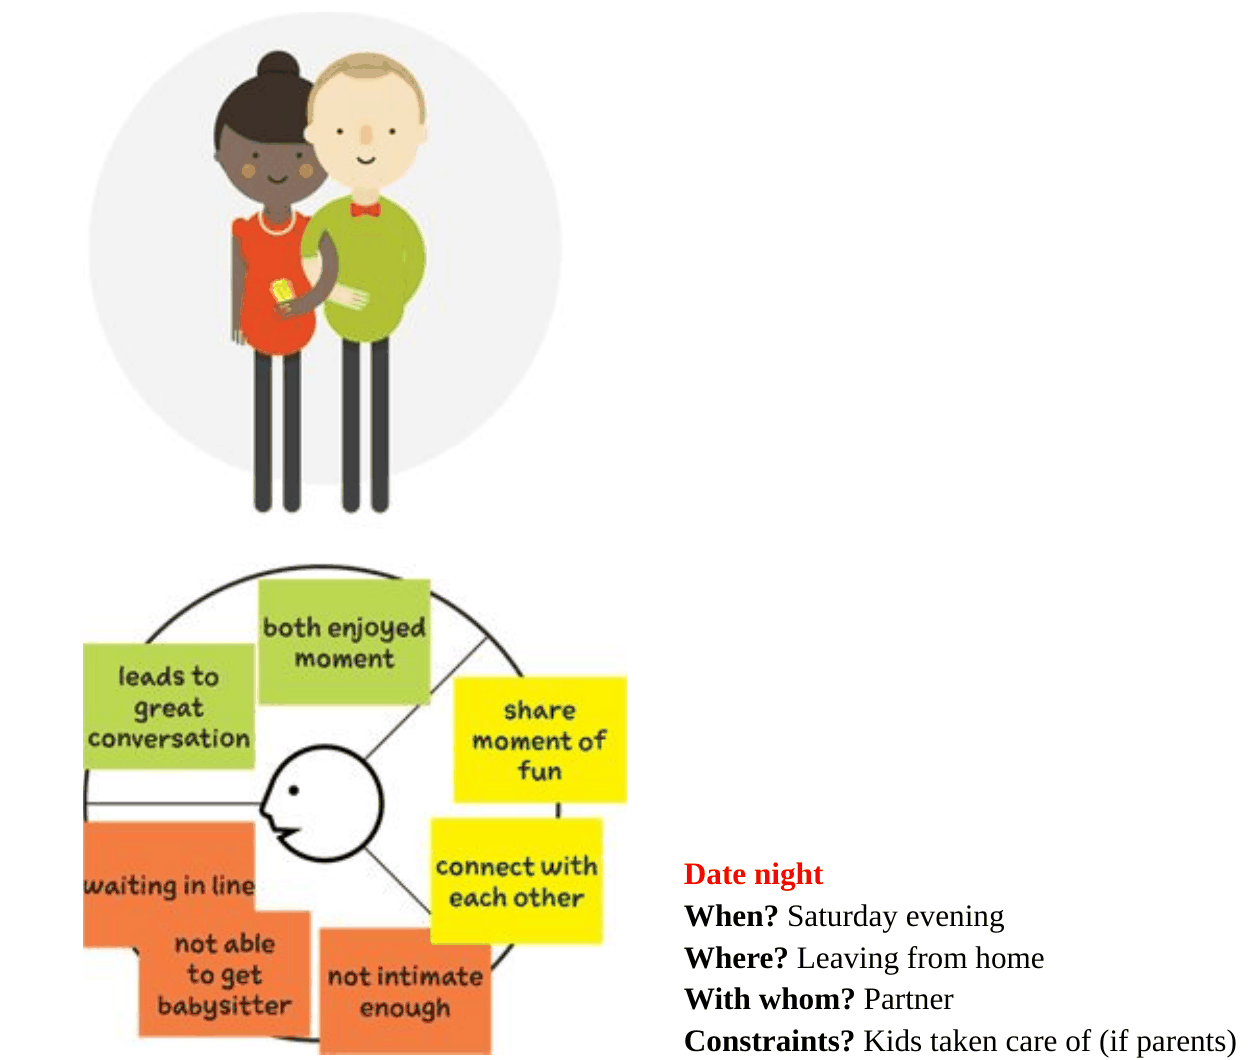
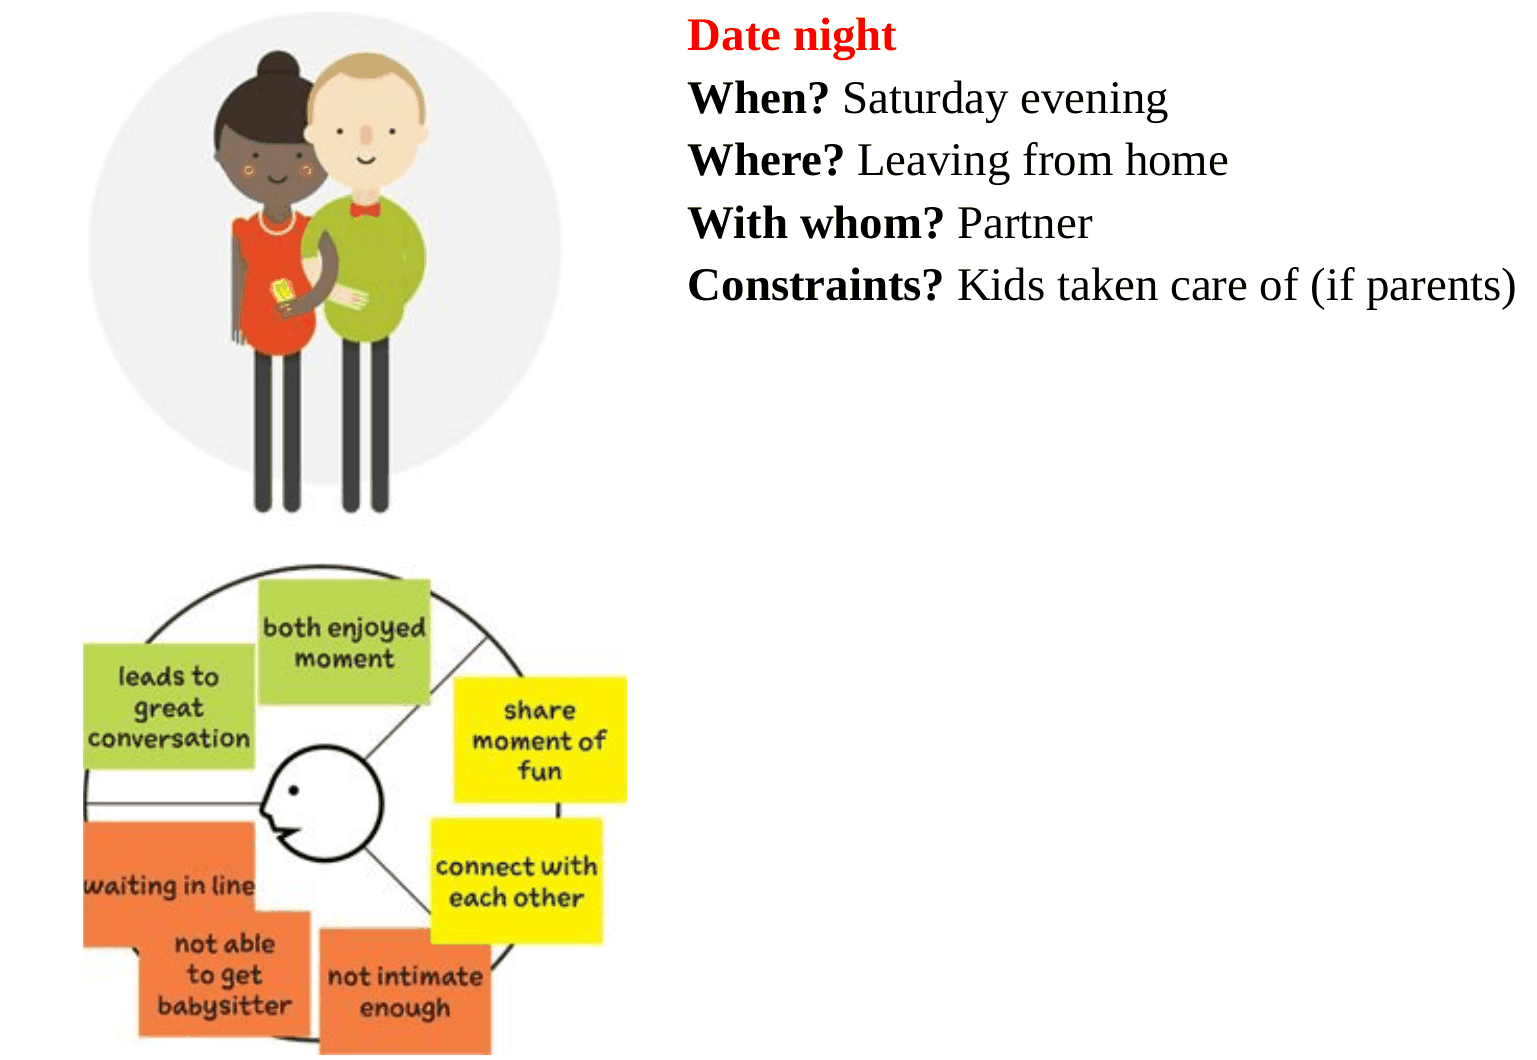
Tag 3: Befunde aus dem Review von #407
- erste-ideen: Zwei-Minuten-Runde auf freier Fläche oder Papier, Kaffeebar-Spalte
  auf Miro erst danach (dort liegen schon Ideen des Beispiels); Begleiter mit Miro-Schritt
- „18 Ideen im Beispiel; eure von vorhin kommen dazu“ statt „zählen dazu“
- value-map: „einer der vier häufigen Fehler“ statt „zweithäufigste“
- jane: Alt-Text Popcornbecher statt Kinokarten
- Rückfallzeit der Auflösungen als ENDE_TAG_3 (innolab-zeiten.ts), NACH_ZWOELF verweist darauf
- Beamer: alle neuen und geänderten Folien passen in 1280×720 und 1920×1080
- kontext: beide Abbildungen gleich breit, Kontextblock oben rechts und größer
- Begleiter: Regieanweisungen ohne „ihr“; „Ampel an der Hallentür“ wie auf Miro

Claude-Session: https://claude.ai/code/session_01CCZsPnWjKcPYRGN4dupdwP

diff --git a/src/data/begleiter/ideation.ts b/src/data/begleiter/ideation.ts
@@ -37,30 +37,31 @@ export const NOTIZEN_IDEATION: Record<string, Notiz> = {
   'erste-ideen': {
     live: [
       'Frage H1 vorlesen, nichts erklären.',
+      'Freie Fläche oder Papier – Kaffeebar-Spalte noch nicht zeigen.',
       'Timer 2 min: allein, ein Sticky pro Idee, durchnummeriert.',
       'Nach 2 min: reihum nur die erste Idee vorlesen.',
       'Falle: schon jetzt kommentieren oder werten.',
-      'Stickies bleiben in der Kaffeebar-Spalte liegen.',
+      'Danach: Stickies aller in die Kaffeebar-Spalte legen.',
     ],
     uebung: { dauer: '2 min + 1 min reihum', form: 'allein, dann reihum laut: nur Idee Nr. 1' },
     miro: {
       frame: 'T3 · 3 · Ideation',
       schritte: [
-        '„Alle zu mir holen“ auf die Kaffeebar-Spalte von T3 · 3.',
-        'Jede*r legt eigene Stickies in „Ideen“, in der Reihenfolge des Einfalls nummeriert (1, 2, 3 …).',
-        'Nichts verschieben, nichts gruppieren – die Nummern braucht ihr auf der nächsten Folie.',
+        'Die zwei Minuten laufen auf einer freien Fläche neben den Frames oder auf Papier: In der Kaffeebar-Spalte von T3 · 3 liegen schon Ideen des Beispiels, sie würden die Antworten vorwegnehmen.',
+        'Jede*r schreibt eigene Stickies, in der Reihenfolge des Einfalls nummeriert (1, 2, 3 …). Nichts verschieben, nichts gruppieren – die Nummern braucht es auf der nächsten Folie.',
+        'Erst nach der Runde: „Alle zu mir holen“ auf die Kaffeebar-Spalte; die Stickies aller kommen in „Ideen“ dazu.',
       ],
-      vorschlaege: ['Ampel an der Tür', 'Bestellungen nach Abfahrtszeit aufrufen', 'Kaffee per Drohne'],
+      vorschlaege: ['Ampel an der Hallentür', 'Bestellungen nach Abfahrtszeit aufrufen', 'Kaffee per Drohne'],
     },
     ablauf: {
       schritte: [
         'H1 vorlesen: „Wie könnten wir dafür sorgen, dass Pendler*innen beim Betreten der Halle wissen, ob sich ein Kaffee bis zur Abfahrt ausgeht?“',
-        'Timer 2 min, alle schreiben still. Die Nummer auf dem Sticky ist die Reihenfolge des Einfalls.',
+        'Timer 2 min, alle schreiben still, auf einer freien Fläche oder auf Papier. Die Nummer auf dem Sticky ist die Reihenfolge des Einfalls.',
         'Reihum: Jede*r liest nur Idee Nr. 1 vor. Kein Kommentar.',
       ],
       achten: [
         'Die Nummern sind der Punkt der Übung – ohne sie fehlt der Vergleich in der Auflösung.',
-        'Die drei Stickies, die schon in der Spalte liegen, zählen nicht mit; wer dieselbe Idee hat, schreibt sie trotzdem.',
+        'Die Kaffeebar-Spalte zeigt schon drei Ideen des Beispiels (die Vorschläge unten). Sie bleibt bis nach der Runde zu; wer danach dieselbe Idee dort findet, legt die eigene trotzdem dazu.',
       ],
       aufloesung: 'Kommt auf der nächsten Folie: erste Ideen vergleichen, dann die Nummer der ungewöhnlichsten Idee nennen.',
     },
@@ -354,7 +355,7 @@ export const NOTIZEN_IDEATION: Record<string, Notiz> = {
 
   beispiel: {
     live: [
-      'Eure Stickies von vorhin zählen zu den 18.',
+      '„Im Beispiel wurden es 18 Ideen – eure von vorhin kommen dazu.“',
       'Aussortiert: Becher mit Deckel, mehr Sitzplätze – gut, andere Chance.',
       'Fragen: Welche drei Arten von Idee seht ihr?',
       'Aufdecken: Anzeige, Bestellweg, anderer Ort.',
@@ -434,7 +435,7 @@ export const NOTIZEN_IDEATION: Record<string, Notiz> = {
       'Fragen: Sind eure drei wirklich verschieden – oder Löwe, Tiger, Puma?',
       'Reihum: je Idee ein Wort für ihre Art.',
       'Bei drei Varianten: eine Idee anderer Art aus der Liste holen.',
-      'Ausblick: Nach der Pause kommen die drei neben euer Kundenprofil.',
+      'Ausblick: Nach der Pause kommen die drei neben das eigene Kundenprofil.',
     ],
     kern: [
       {

diff --git a/src/data/begleiter/value-map.ts b/src/data/begleiter/value-map.ts
@@ -58,7 +58,7 @@ export const NOTIZEN_VALUE_MAP: Record<string, Notiz> = {
         'Bei B und D nach der ID fragen: Welchen Pain, welchen Gain im Profil der Kaffeebar trifft der Zettel?',
         'Es ist in Ordnung, wenn ein Zettel Pain und Gain zugleich trifft (S. 103).',
       ],
-      aufloesung: 'A und C sind Produkte & Services (Schaufenster). B ist ein Schmerzlinderer für P1, D ein Gewinnerzeuger für G1. Der zweithäufigste Fehler im Buch: „Add products and services to the pain reliever and gain creator fields.“ (S. 105)',
+      aufloesung: 'A und C sind Produkte & Services (Schaufenster). B ist ein Schmerzlinderer für P1, D ein Gewinnerzeuger für G1. Einer der vier häufigen Fehler im Buch: „Add products and services to the pain reliever and gain creator fields.“ (S. 105)',
     },
     kern: [
       {
@@ -77,7 +77,7 @@ export const NOTIZEN_VALUE_MAP: Record<string, Notiz> = {
     live: [
       'Lückensatz vorlesen, Lücken mit dem Finger zeigen.',
       '„Ein Satz pro Idee – er zwingt euch zu sagen, wie sie Wert schafft.“',
-      'Job, Pain, Gain kommen aus eurem Profil, mit ID.',
+      '„Job, Pain und Gain kommen aus eurem Profil, mit ID.“',
       'Falle: am ersten Satz feilen – drei rohe Sätze sind das Ziel.',
     ],
     verstaendnis: {
@@ -141,7 +141,7 @@ export const NOTIZEN_VALUE_MAP: Record<string, Notiz> = {
     live: [
       'Drei Lückensätze vorlesen, Tabelle noch leer.',
       'Reihum: Welche Idee trifft am meisten – und welchen Eintrag nicht?',
-      'Zeile für Zeile aufdecken, mit euren Antworten vergleichen.',
+      'Zeile für Zeile aufdecken, mit den Antworten aller vergleichen.',
       'Das „?“ beim Kaffeewagen: eine Annahme, kein Kreuz.',
       '„Bewusst offen“ zeigen: J2, J3, G2, G3, P4.',
     ],
@@ -167,7 +167,7 @@ export const NOTIZEN_VALUE_MAP: Record<string, Notiz> = {
     live: [
       'Abbildung von unten nach oben: Papier, Markt, Bank.',
       '„Heute erreicht ihr Stufe 1 – mehr nicht.“',
-      'Stufe 2 sind eure Tests ab Tag 4.',
+      '„Stufe 2 sind eure Tests ab Tag 4.“',
       'Die Wahl ist umkehrbar: Die anderen zwei Ideen bleiben liegen.',
       'Wenn hinten: nur Stufe 1 und der Satz zur Umkehrbarkeit.',
     ],
@@ -232,7 +232,7 @@ export const NOTIZEN_VALUE_MAP: Record<string, Notiz> = {
   uebertrag: {
     live: [
       'Fragen: Trifft eure gewählte Idee den obersten Pain – oder die bequemen?',
-      'Reihum: der oberste Eintrag, den eure Idee nicht trifft.',
+      'Reihum: jede*r nennt den obersten Eintrag, den die eigene Idee verfehlt.',
       '„Wenige Pains, die aber extrem gut.“',
       'Ausblick: Nach der Pause die Geschichte dazu – der Story-Bogen.',
     ],

diff --git a/src/data/begleiter/kundenprofil.ts b/src/data/begleiter/kundenprofil.ts
@@ -38,8 +38,8 @@ export const NOTIZEN_KUNDENPROFIL: Record<string, Notiz> = {
   jane: {
     live: [
       'Steckbrief zeigen, nichts dazu sagen.',
-      'Reihum, je ein Satz: Was bietet ihr Jane an?',
-      'Dann reihum: Was müsstet ihr dafür noch wissen?',
+      'Reihum, je ein Satz: „Was bietet ihr Jane an?“',
+      'Dann reihum: „Was müsstet ihr dafür noch wissen?“',
       'Falle: die Antwort „Kontext“ vorwegnehmen.',
     ],
     uebung: { dauer: '2 min', form: 'zu dritt, reihum laut, zwei Runden' },
@@ -72,7 +72,7 @@ export const NOTIZEN_KUNDENPROFIL: Record<string, Notiz> = {
   kontext: {
     live: [
       'Aufdecken: Mittwochnachmittag mit Kindern, Samstagabend zu zweit, allein zur Recherche.',
-      'Eure Fragen von eben damit vergleichen.',
+      'Mit den Fragen vergleichen, die alle eben genannt haben.',
       '„Dieselbe Person, andere Jobs – je nach Anlass.“',
       'Brücke Kaffeebar: werktags 7:15–7:45 ist ein Anlass, kein Steckbrief.',
       'Fragen: In welchem Anlass steckt euer Segment?',

diff --git a/src/components/innolab-zeiten.ts b/src/components/innolab-zeiten.ts
@@ -25,10 +25,14 @@ export const ENDE_TAG_2 = '2026-11-12T23:59';
  *  per Klick des Präsentators wie beim Toast; vorher sollen alle ihren eigenen Satz abgeschickt haben. */
 export const NACH_NETFLIX = ENDE_TAG_2;
 
+/** Ende von Tag 3 (21.11.) als später Rückfall für die Auflösungen des Tages (Baum, Ideation, Kundenprofil, Value Map):
+ *  Mitternacht wie bei ENDE_TAG_2. Aufgedeckt wird per Klick des Präsentators. */
+export const ENDE_TAG_3 = '2026-11-21T23:59';
+
 /** Rückfall für die Antwortrunde „Zwölf Chancen“ an Tag 3 (Baum, Folie „warum“; der Baum eröffnet seit 12.11. Tag 3):
  *  Ende des Tages, Mitternacht wie bei ENDE_TAG_2. Aufgedeckt wird per Klick des Präsentators wie bei Netflix; vorher
  *  sollen alle ihre Nummer mit Satz abgeschickt haben. */
-export const NACH_ZWOELF = '2026-11-21T23:59';
+export const NACH_ZWOELF = ENDE_TAG_3;
 
 
 /** Antwortrunde „Rückblick“ am Ende von Tag 2 (Abschluss, Folie „rueckblick“): Im Raum wird nicht aufgedeckt, Markus
